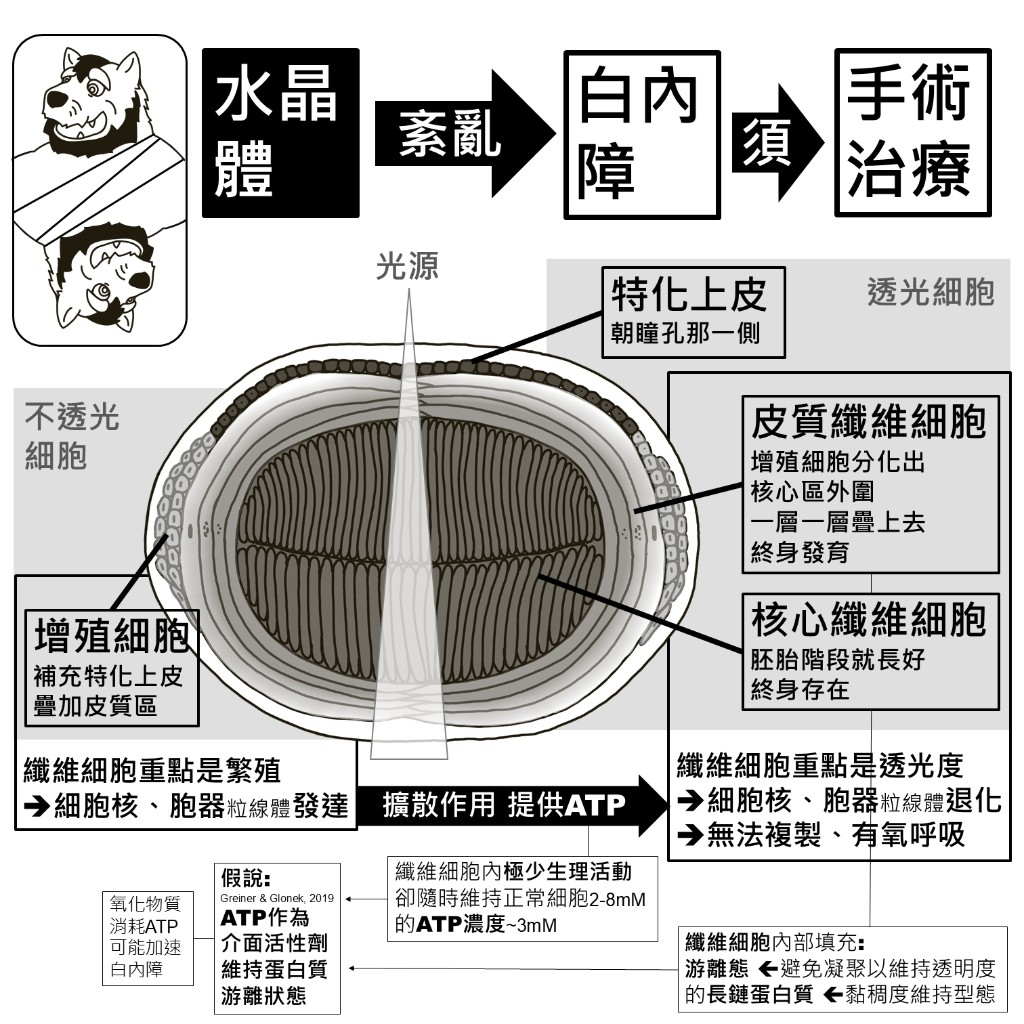
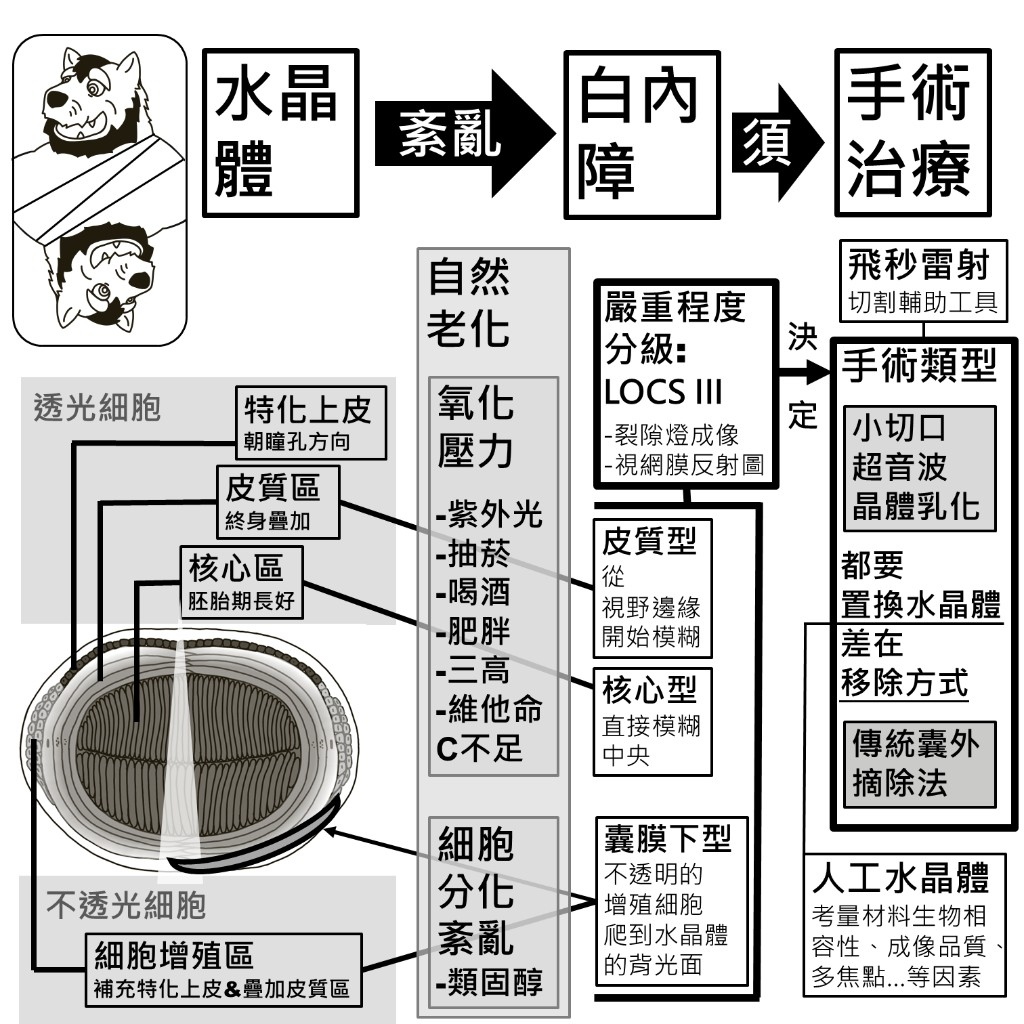
Add COPD content, CKD nephron diagram, and updated cataract infographics

diff --git a/pages/medical/chronic-disease/chronic-disease-index/chronic-obstructive-pulmonary-disease/index.html b/pages/medical/chronic-disease/chronic-disease-index/chronic-obstructive-pulmonary-disease/index.html
@@ -4,7 +4,7 @@
   <meta charset="UTF-8" />
   <meta name="viewport" content="width=device-width, initial-scale=1.0" />
   <title>慢性阻塞性肺病 · 單身獸爺的退休生活攻略</title>
-  <meta name="description" content="慢性阻塞性肺病（COPD）的預防、症狀管理與照護資訊整理。" />
+  <meta name="description" content="慢性阻塞性肺病（COPD）的危險因子、症狀、GOLD 診斷標準、鑑別診斷，以及穩定期的藥物、生活型態與疫苗整理。" />
   <link rel="stylesheet" href="../../../../../css/style.css" />
 </head>
 <body>
@@ -34,23 +34,240 @@
     <div class="page-header">
       <span class="page-icon">🫁</span>
       <h1 class="page-title">慢性阻塞性肺病</h1>
-      <p class="page-desc">以持續性呼吸道阻塞為特徵，吸菸是最主要的危險因子，早期戒菸可大幅減緩惡化。</p>
+      <p class="page-desc">以持續性氣流受阻為特徵。先看危險因子與症狀，再用肺量計確認 GOLD 標準，排除其他肺部疾病後，依嚴重程度安排穩定期治療。</p>
     </div>
 
-    <div class="page-content" style="grid-template-columns: 1fr;">
-      <div class="page-main">
-        <div class="content-section">
-          <div class="placeholder-block">
-            <div class="placeholder-icon">🚧</div>
-            <h3>此主題內容還在整理中</h3>
-            <p>慢性阻塞性肺病的症狀、用藥、呼吸復健與照護整理之後會補上，敬請期待。</p>
-          </div>
+    <div class="page-content">
+      <aside class="page-sidebar">
+        <div class="sidebar-section">
+          <div class="sidebar-title">本頁章節</div>
+          <a href="#overview" class="sidebar-link">總覽</a>
+          <a href="#risk-factors" class="sidebar-link">危險因子</a>
+          <a href="#symptoms" class="sidebar-link">常見症狀</a>
+          <a href="#spirometry" class="sidebar-link">肺量計與 GOLD</a>
+          <a href="#differential" class="sidebar-link">鑑別診斷</a>
+          <a href="#medications" class="sidebar-link">穩定期藥物</a>
+          <a href="#lifestyle" class="sidebar-link">生活型態與疫苗</a>
         </div>
+      </aside>
+
+      <div class="page-main">
+
+        <!-- 總覽 -->
+        <section class="content-section" id="overview">
+          <h2>總覽</h2>
+          <p>COPD 的路徑是：<strong>危險因子 → 常見症狀 → 鑑別與診斷 → 確認 COPD → 治療</strong>。診斷的核心是吸入支氣管擴張劑後，肺量計 <strong>FEV₁/FVC &lt; 0.7</strong>。</p>
+          <div class="figure">
+            <img src="../../../../../assets/images/medical/chronic-disease/chronic-obstructive-pulmonary-disease/01-overview.png" alt="慢性阻塞性肺病總覽：危險因子、常見症狀、GOLD 診斷與鑑別、穩定期治療路徑" />
+          </div>
+        </section>
+
+        <!-- 危險因子 -->
+        <section class="content-section" id="risk-factors">
+          <h2>危險因子</h2>
+          <p>危險因子分成先天與後天。後天裡最嚴重的是二手煙；吸菸也會加速肺部老化。</p>
+          <div class="figure">
+            <img src="../../../../../assets/images/medical/chronic-disease/chronic-obstructive-pulmonary-disease/02-risk-factors.png" alt="COPD 危險因子：先天（基因、肺部發育不良）與後天（環境汙染、感染、自然老化）" loading="lazy" />
+          </div>
+
+          <h3>先天</h3>
+          <ul class="link-list">
+            <li><strong>基因：</strong>α-1 抗胰蛋白酶缺乏（AATD）。AAT 本來會抑制肺泡內嗜中性白血球產生的彈性蛋白酶；缺乏時肺組織較容易被破壞。</li>
+            <li><strong>肺部發育不良：</strong>肺部到 20–25 歲才發育完全。孕婦因素包括高血壓、高血糖、肥胖、酒精、尼古丁、營養不良；早產與出生體重不足也會影響。</li>
+          </ul>
+
+          <h3>後天</h3>
+          <ul class="link-list">
+            <li><strong>環境汙染：</strong>最嚴重是二手煙；其次是 NO、NO₂；再來是 PM2.5、PM10、O₃、CO、SO₂。避免在燒香空間待超過 1 小時；接觸粉塵的職業要戴口罩。</li>
+            <li><strong>感染：</strong>例如肺結核。</li>
+            <li><strong>自然老化：</strong>肺部從 25 歲之後機能開始下降。肺泡空間擴大、肺組織失去彈性，無法靠彈性把空氣擠出與吸入，氣體交換能力下降。吸菸會加速老化。</li>
+          </ul>
+        </section>
+
+        <!-- 常見症狀 -->
+        <section class="content-section" id="symptoms">
+          <h2>常見症狀</h2>
+          <p>GOLD 指南會綜合<strong>氣流阻塞程度（FEV₁/FVC）</strong>、<strong>病史</strong>，以及對日常生活的影響（<strong>CAT</strong>、<strong>mMRC</strong>）來訂治療方案。</p>
+          <div class="figure">
+            <img src="../../../../../assets/images/medical/chronic-disease/chronic-obstructive-pulmonary-disease/03-symptoms.png" alt="COPD 常見症狀：mMRC 喘量表、慢性咳嗽痰、胸悶喘鳴、反覆感染、疲憊與病史，以及 CAT 評估" loading="lazy" />
+          </div>
+
+          <h3>喘：mMRC 量表</h3>
+          <p>看「多劇烈的運動才會喘」。分數愈高，嚴重度愈高。</p>
+          <div class="info-table-wrap">
+            <table class="info-table">
+              <thead>
+                <tr><th>分數</th><th>表現</th></tr>
+              </thead>
+              <tbody>
+                <tr><td>1 分</td><td>平地快走／爬小坡就會喘</td></tr>
+                <tr><td>2 分</td><td>平地走路會喘到需要停下休息</td></tr>
+                <tr><td>3 分</td><td>走到 100 公尺內就需要停下休息</td></tr>
+                <tr><td>4 分</td><td>站著穿／脫衣就會喘</td></tr>
+              </tbody>
+            </table>
+          </div>
+
+          <h3>其他常見表現</h3>
+          <ul class="link-list">
+            <li><strong>慢性咳嗽與痰：</strong>每天都在咳，不一定有痰</li>
+            <li><strong>胸悶與喘鳴音：</strong>胸悶通常在運動後；喘鳴聲用聽診器聽</li>
+            <li><strong>反覆下呼吸道感染：</strong>痰液變黃</li>
+            <li><strong>疲憊、睡眠不佳、體重減輕、肌力流失、厭食：</strong>看是否還有精力完成日常任務、是否有信心能獨外出行</li>
+          </ul>
+
+          <h3>CAT：COPD 對日常生活的影響</h3>
+          <p>CAT（慢性阻塞性肺病評估測試）用來評估 COPD 對日常生活的影響，後面起始治療分組會用到。</p>
+
+          <h3>病史要問什麼</h3>
+          <ul class="link-list">
+            <li>家族病史，以及先天／後天危險因子</li>
+            <li>症狀存在多久、是否惡化過、是否住院過</li>
+            <li>憂鬱、焦慮病史；其他共病如心臟病、骨質疏鬆、肌少症</li>
+          </ul>
+        </section>
+
+        <!-- 肺量計與 GOLD -->
+        <section class="content-section" id="spirometry">
+          <h2>肺量計與 GOLD 標準</h2>
+          <p>GOLD 把 COPD 定義成<strong>持續性空氣受阻於肺部</strong>：吸入支氣管擴張劑後，<strong>FEV₁/FVC &lt; 0.7</strong>。</p>
+          <div class="figure">
+            <img src="../../../../../assets/images/medical/chronic-disease/chronic-obstructive-pulmonary-disease/04-spirometry.png" alt="肺量計示意：FEV1 第一秒用力呼氣量與 FVC 用力肺活量，GOLD 標準為 FEV1/FVC 小於 0.7" loading="lazy" />
+          </div>
+
+          <div class="info-table-wrap">
+            <table class="info-table">
+              <thead>
+                <tr><th>指標</th><th>全名</th><th>意思</th></tr>
+              </thead>
+              <tbody>
+                <tr>
+                  <td>FEV₁</td>
+                  <td>第一秒用力呼氣量<br>Forced Expiratory Volume in 1 Second</td>
+                  <td>用力吐氣，第一秒內呼出的氣體容積。反映呼吸道有無狹窄或阻塞。</td>
+                </tr>
+                <tr>
+                  <td>FVC</td>
+                  <td>用力肺活量<br>Forced Vital Capacity</td>
+                  <td>吸氣到最飽後，把氣體全部吐到最遠點的最大體積。反映肺部總容量。</td>
+                </tr>
+              </tbody>
+            </table>
+          </div>
+        </section>
+
+        <!-- 鑑別診斷 -->
+        <section class="content-section" id="differential">
+          <h2>鑑別診斷</h2>
+          <p>同樣會喘、咳嗽，不一定是 COPD。先用肺量計確認氣流是否真的受阻，再用病史與影像排除其他疾病。</p>
+          <div class="figure">
+            <img src="../../../../../assets/images/medical/chronic-disease/chronic-obstructive-pulmonary-disease/05-differential-diagnosis.png" alt="COPD 鑑別診斷：慢性支氣管炎與肺氣腫、心衰竭、氣喘、支氣管擴張症、肺結核與其他肺部疾病" loading="lazy" />
+          </div>
+
+          <h3>GOLD 標準底下的兩種病理</h3>
+          <ul class="link-list">
+            <li><strong>慢性支氣管炎：</strong>支氣管持續發炎 → 黏膜腫脹、分泌物增加 → 持續咳嗽／痰連續兩年、每次超過 3 個月</li>
+            <li><strong>肺氣腫：</strong>細支氣管末端彈性喪失，加上肺泡擴大、黏膜遭破壞 → 氣體出入速率變差</li>
+          </ul>
+          <p>氣流困在肺部時，肺量計：吸入支氣管擴張劑後 FEV₁/FVC &lt; 0.7。</p>
+
+          <h3>不一定是肺部空氣出入受阻</h3>
+          <p><strong>鬱血性心衰竭：</strong>到肺接收氧氣的血不足，不一定肺部空氣出入受阻。</p>
+
+          <h3>同樣症狀、不同機轉，日後可能進展到 COPD</h3>
+          <p>需要病史＋胸腔 X 光／CT 來分辨：</p>
+          <ul class="link-list">
+            <li><strong>氣喘：</strong>年輕即發病；緩解期接近正常肺；僅發作期須用救急藥</li>
+            <li><strong>支氣管擴張症：</strong>細菌反覆感染發炎 → 氣道永久擴張、膿痰；重點是制菌</li>
+            <li><strong>肺結核：</strong>結核菌感染慢性發炎。痊癒後氣道可能喪失彈性（阻塞型通氣障礙），或結疤封住（限制型）。要先確認不是肺結核還沒好。</li>
+          </ul>
+
+          <h3>同樣症狀、較難處理的罕病</h3>
+          <p>需要胸 CT＋病理切片。</p>
+          <ul class="link-list">
+            <li><strong>瀰漫／阻塞性細支氣管炎：</strong>感染或免疫過激造成細支氣管瀰漫性發炎 → 應投予抗生素／免疫抑制劑</li>
+            <li><strong>其他肺部疾病：</strong>縱膈腔構造或腫瘤壓迫、氣道狹窄、氣道內腫瘤等</li>
+          </ul>
+        </section>
+
+        <!-- 穩定期藥物 -->
+        <section class="content-section" id="medications">
+          <h2>穩定期治療：藥物</h2>
+          <p>穩定期藥物分成吸入型與口服型。起始用藥依 2023 GOLD Report，用惡化次數、住院、mMRC 與 CAT 分組。</p>
+          <div class="figure">
+            <img src="../../../../../assets/images/medical/chronic-disease/chronic-obstructive-pulmonary-disease/06-medications.png" alt="穩定期 COPD 藥物：吸入型支氣管擴張劑與類固醇、口服藥，以及 2023 GOLD 起始治療分組" loading="lazy" />
+          </div>
+
+          <h3>吸入型</h3>
+          <ul class="link-list">
+            <li><strong>支氣管擴張劑：</strong>β₂ 交感神經刺激劑（BA）｜抗膽鹼藥物（MA）。各自分成短效型（喘時用）與長效型（LA，常規用，一天一次）。</li>
+            <li><strong>類固醇：</strong>降低過激免疫反應，適用於氣喘、血中嗜酸性球偏高。LABA、LAMA 效果不佳時，進階用藥為三藥併用。</li>
+          </ul>
+
+          <h3>口服型</h3>
+          <ul class="link-list">
+            <li><strong>放鬆氣管平滑肌：</strong>茶鹼（Theophylline）。LAMA、LABA 效果不足，或無法吸入時使用。</li>
+            <li><strong>抑制發炎：</strong>PDE4 抑制劑。強效，用於一年內曾因惡化而住院者。</li>
+            <li><strong>抗生素：</strong>巨環類（erythromycin、azithromycin），針對呼吸道致病菌。使用所有吸入藥後仍頻繁惡化者。</li>
+            <li><strong>抗氧化型化痰藥：</strong>斷雙硫鍵、降低痰液黏稠度。例如 NASSI、Carbocysteine、Erdosteine。</li>
+          </ul>
+
+          <h3>起始治療建議（2023 GOLD Report）</h3>
+          <div class="info-table-wrap">
+            <table class="info-table">
+              <thead>
+                <tr><th>惡化史</th><th>分組條件</th><th>建議</th></tr>
+              </thead>
+              <tbody>
+                <tr>
+                  <td>≥ 2 次惡化<br>或 ≥ 1 次因惡化住院</td>
+                  <td>E 組</td>
+                  <td>LABA ＋ LAMA 為主。<br>嗜酸性白血球 ≥ 300 顆/μL → ICS ＋ LABA ＋ LAMA</td>
+                </tr>
+                <tr>
+                  <td rowspan="2">&lt; 2 次惡化<br>（沒有導致住院）</td>
+                  <td>A 組<br>mMRC 0–1 分、CAT &lt; 10</td>
+                  <td>單方長／短效吸入支氣管擴張劑</td>
+                </tr>
+                <tr>
+                  <td>B 組<br>mMRC ≥ 2 分、CAT ≥ 10</td>
+                  <td>LABA ＋ LAMA</td>
+                </tr>
+              </tbody>
+            </table>
+          </div>
+        </section>
+
+        <!-- 生活型態與疫苗 -->
+        <section class="content-section" id="lifestyle">
+          <h2>穩定期治療：生活型態與疫苗</h2>
+          <p>藥物之外，戒菸、營養、運動與疫苗都能減少惡化、維持體能。</p>
+          <div class="figure">
+            <img src="../../../../../assets/images/medical/chronic-disease/chronic-obstructive-pulmonary-disease/07-lifestyle-vaccines.png" alt="穩定期 COPD 生活型態：戒菸、營養照護、有氧運動與肌力訓練，以及流感、COVID-19、百日咳、肺炎鏈球菌與疱疹疫苗" loading="lazy" />
+          </div>
+
+          <h3>生活型態</h3>
+          <ul class="link-list">
+            <li><strong>戒菸：</strong>尼古丁替代治療有效，包括口香糖、吸入劑、鼻噴劑、皮貼片、舌下錠、口服錠劑。</li>
+            <li><strong>營養照護：</strong>疲勞、呼吸困難會讓人無法自行調理食物；慢性咳痰改變味覺、橫膈膜擠壓容易有飽足感；憂鬱與藥物副作用（噁心、消化不良）也會讓人吃不下。需要監控體重，必要時用口服營養品、蛋白質、維他命 D。</li>
+            <li><strong>有氧運動：</strong>做到稍微有點呼吸困難。</li>
+            <li><strong>肌力訓練：</strong>每週 &gt; 2 次。</li>
+          </ul>
+
+          <h3>疫苗</h3>
+          <ul class="link-list">
+            <li>流感 ＋ COVID-19</li>
+            <li>百日咳</li>
+            <li>肺炎鏈球菌</li>
+            <li>人類疱疹病毒</li>
+          </ul>
+        </section>
 
         <div class="page-footer-nav">
           <a href="../cardio-vascular-disease/index.html">← 上一篇：心血管疾病</a>
           <a href="../cataract/index.html">下一篇：白內障 →</a>
         </div>
+
       </div>
     </div>
   </main>
@@ -59,5 +276,6 @@
     <p>單身獸爺的退休生活攻略</p>
   </footer>
 
+  <script src="../../../../../js/main.js"></script>
 </body>
 </html>

diff --git a/pages/medical/chronic-disease/chronic-disease-index/chronic-kidney-disease/index.html b/pages/medical/chronic-disease/chronic-disease-index/chronic-kidney-disease/index.html
@@ -41,6 +41,7 @@
       <aside class="page-sidebar">
         <div class="sidebar-section">
           <div class="sidebar-title">本頁章節</div>
+          <a href="#nephron" class="sidebar-link">腎元構造</a>
           <a href="#severity" class="sidebar-link">嚴重程度與參考指標</a>
           <a href="#symptoms" class="sidebar-link">症狀</a>
           <a href="#lifestyle" class="sidebar-link">生活型態預防</a>
@@ -51,6 +52,15 @@
       </aside>
 
       <div class="page-main">
+
+        <!-- 腎元構造 -->
+        <section class="content-section" id="nephron">
+          <h2>腎元：腎絲球＋腎小管</h2>
+          <p>腎臟的基本功能單位是<strong>腎元</strong>，由腎絲球與腎小管組成。腎絲球負責過濾，腎小管負責回收有用物質、排出廢物。一天約過濾 180 公升，最後只排出約 1.5 公升尿液，其餘都被回收。</p>
+          <div class="figure">
+            <img src="../../../../../assets/images/medical/chronic-disease/chronic-kidney-disease/00-nephron.png" alt="慢性腎臟病腎元構造：腎絲球過濾、鮑氏囊接收濾液、腎小管與微血管網主動排出與回收物質" />
+          </div>
+        </section>
 
         <!-- 嚴重程度與參考指標 -->
         <section class="content-section" id="severity">

diff --git a/README.md b/README.md
@@ -26,7 +26,7 @@ SingleBadgerRetirementPlan/
 │   └── bucket-list/                    # 人生清單 BINGO 圖
 ├── pages/                              # 第二層：內容頁
 │   ├── medical/
-│   │   ├── chronic-disease/            # 常見慢性疾病（僅 COPD、失智症待建置）
+│   │   ├── chronic-disease/            # 常見慢性疾病（僅失智症待建置）
 │   │   ├── health-checkup/             # 健康檢查（完整內容，整理自 Know_All）
 │   │   ├── self-paid-medical/          # 自費醫療（完整內容，整理自 Know_All）
 │   │   └── emergency-prevention/       # 急症與預防（待建置）
@@ -49,7 +49,7 @@ SingleBadgerRetirementPlan/
 | 醫療 | 常見慢性疾病 — 骨質疏鬆 | 完整內容 |
 | 醫療 | 常見慢性疾病 — 白內障 | 完整內容 |
 | 醫療 | 常見慢性疾病 — 心血管疾病 | 完整內容 |
-| 醫療 | 常見慢性疾病 — 慢性阻塞性肺病 | 待建置 |
+| 醫療 | 常見慢性疾病 — 慢性阻塞性肺病 | 完整內容 |
 | 醫療 | 常見慢性疾病 — 失智症 | 待建置 |
 | 醫療 | 健康檢查 | 完整內容 |
 | 醫療 | 自費醫療 | 完整內容 |
